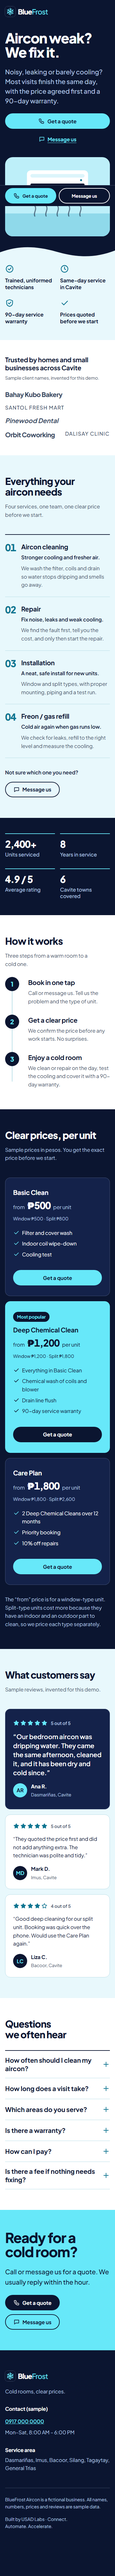
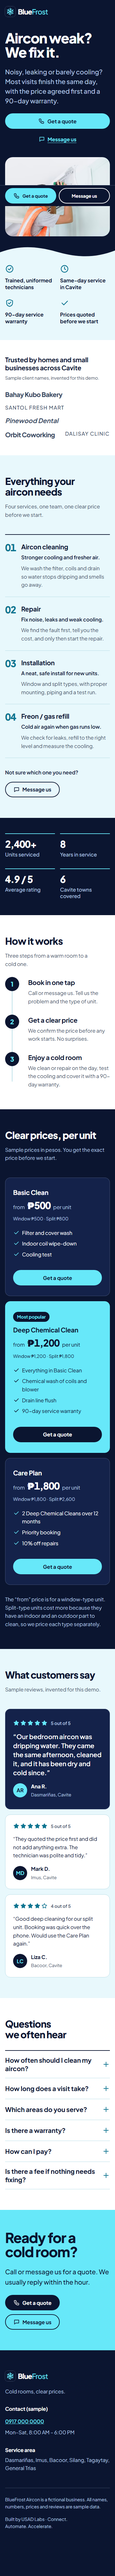
feat: real hero photo (Pixabay, credited), copy matches photo

Changed region(s): [[0.0306, 0.0625, 0.9778, 0.0938]]

diff --git a/src/data/site.ts b/src/data/site.ts
@@ -16,7 +16,7 @@ export const site = {
 };
 
 export const trustClaims: { icon: IconName; text: string }[] = [
-  { icon: 'badge-check', text: 'Trained, uniformed technicians' },
+  { icon: 'badge-check', text: 'Trained technicians in full safety gear' },
   { icon: 'clock', text: 'Same-day service in Cavite' },
   { icon: 'shield-check', text: '90-day service warranty' },
   { icon: 'check', text: 'Prices quoted before we start' },

diff --git a/TEAM.md b/TEAM.md
@@ -93,5 +93,8 @@ Plugins: ponytail is on for every subagent (its SubagentStart hook, mode `full`)
 | 2026-11-03 | 04-build | Bolt | Bold Frost redesign + logo (header, footer, favicon, OG), 3 look-check fixes; gate 5/5 green, Playwright 25 pass. Added a Services "Message us" button partly so the contrast test has a light-band button. ponytail: on | 132,250 (51 tool uses, 9.3 min) |
 | 2026-11-03 | 04b-look | lead | Look check (usad-design §8): OK. Only the hero placeholder is left (user's photo pick) | n/a |
 | 2026-11-03 | 05-qa | Bugsy (haiku) | Re-check after redesign: gate 5/5, lhci 99/100/100/100, 36.6 KB compressed first load, contrast measured in all bands (dark measured but not asserted, which is a small test gap). ponytail: on | 60,878 (17 tool uses, 3.4 min) |
+| 2026-11-03 | 04-build | lead | Hero photo hunt: Pexels was blocked at first (later allowed), and Unsplash/Pixabay were searched too. Rejected: visible brand (EuropAce), company text on a shirt, a real company's upload, hands-only shots. User picked Pixabay 6869855 (IqbalStock, Pixabay Content License). Downloaded 1280×866, 127 KB | n/a |
+| 2026-11-03 | 04-build | Bolt | Hero photo swapped in (astro:assets avif/webp, about 6–11 KB), placeholder deleted, CREDITS updated; gate 5/5 green; first load about 83 KB. ponytail: on | 37,429 (11 tool uses, 2 min) |
+| 2026-11-03 | 04b-look | lead | Look check OK at 1280 and 360. Fixed the copy "uniformed technicians" → "in full safety gear" to match the photo (a Bolt-owned data file, one string, logged) | n/a |
 
 **Token tracking:** subagent tokens come from each task notification. Lead tokens: run `/caveman-stats` or `explain-usage` at the end of each session and paste the total here.

diff --git a/CREDITS.md b/CREDITS.md
@@ -1,6 +1,6 @@
 # Credits
 
-- **Hero photo:** placeholder, user to pick on Pexels. Currently `src/assets/hero-placeholder.svg`, an original illustration made for this project. When the photo is chosen, add its photographer and Pexels URL here.
+- **Hero photo:** 'HVAC repair technician at work' by IqbalStock on Pixabay, https://pixabay.com/photos/home-maintenance-worker-screwdriver-6869855/, Pixabay Content License (free for commercial use, no attribution required; credited anyway).
 - **Font:** [Plus Jakarta Sans](https://github.com/tokotype/PlusJakartaSans) by Tokotype, SIL Open Font License 1.1, the latin-subset variable `woff2` was copied into `public/fonts/` and is served from there; the licence text is `public/fonts/OFL.txt`. The `@fontsource-variable/plus-jakarta-sans` devDependency stays only because it is where that file and the licence came from.
 - **Icons:** drawn by hand for this project (`src/data/icons.ts`). No third-party icon set.
 - **Client names, reviews, prices, phone number:** invented. Any resemblance to real businesses or people is a coincidence.

diff --git a/README.md b/README.md
@@ -39,7 +39,7 @@ Lighthouse mobile (local build, 2026-11-03): performance 97–99, accessibility 
 - `src/data/` content data: services, prices, reviews, FAQ, stats, sample contacts (the section headings and hero copy are in the components)
 - `src/components/` one component per section
 - `src/styles/` design tokens and global styles
-- `src/assets/hero-placeholder.svg` hero image placeholder (swap steps are in `src/components/Hero.astro`)
+- `src/assets/hero-technician.jpg` hero photo (credit in `CREDITS.md`)
 - `CREDITS.md` fonts, icons and image credits
 
 ## Screenshots
